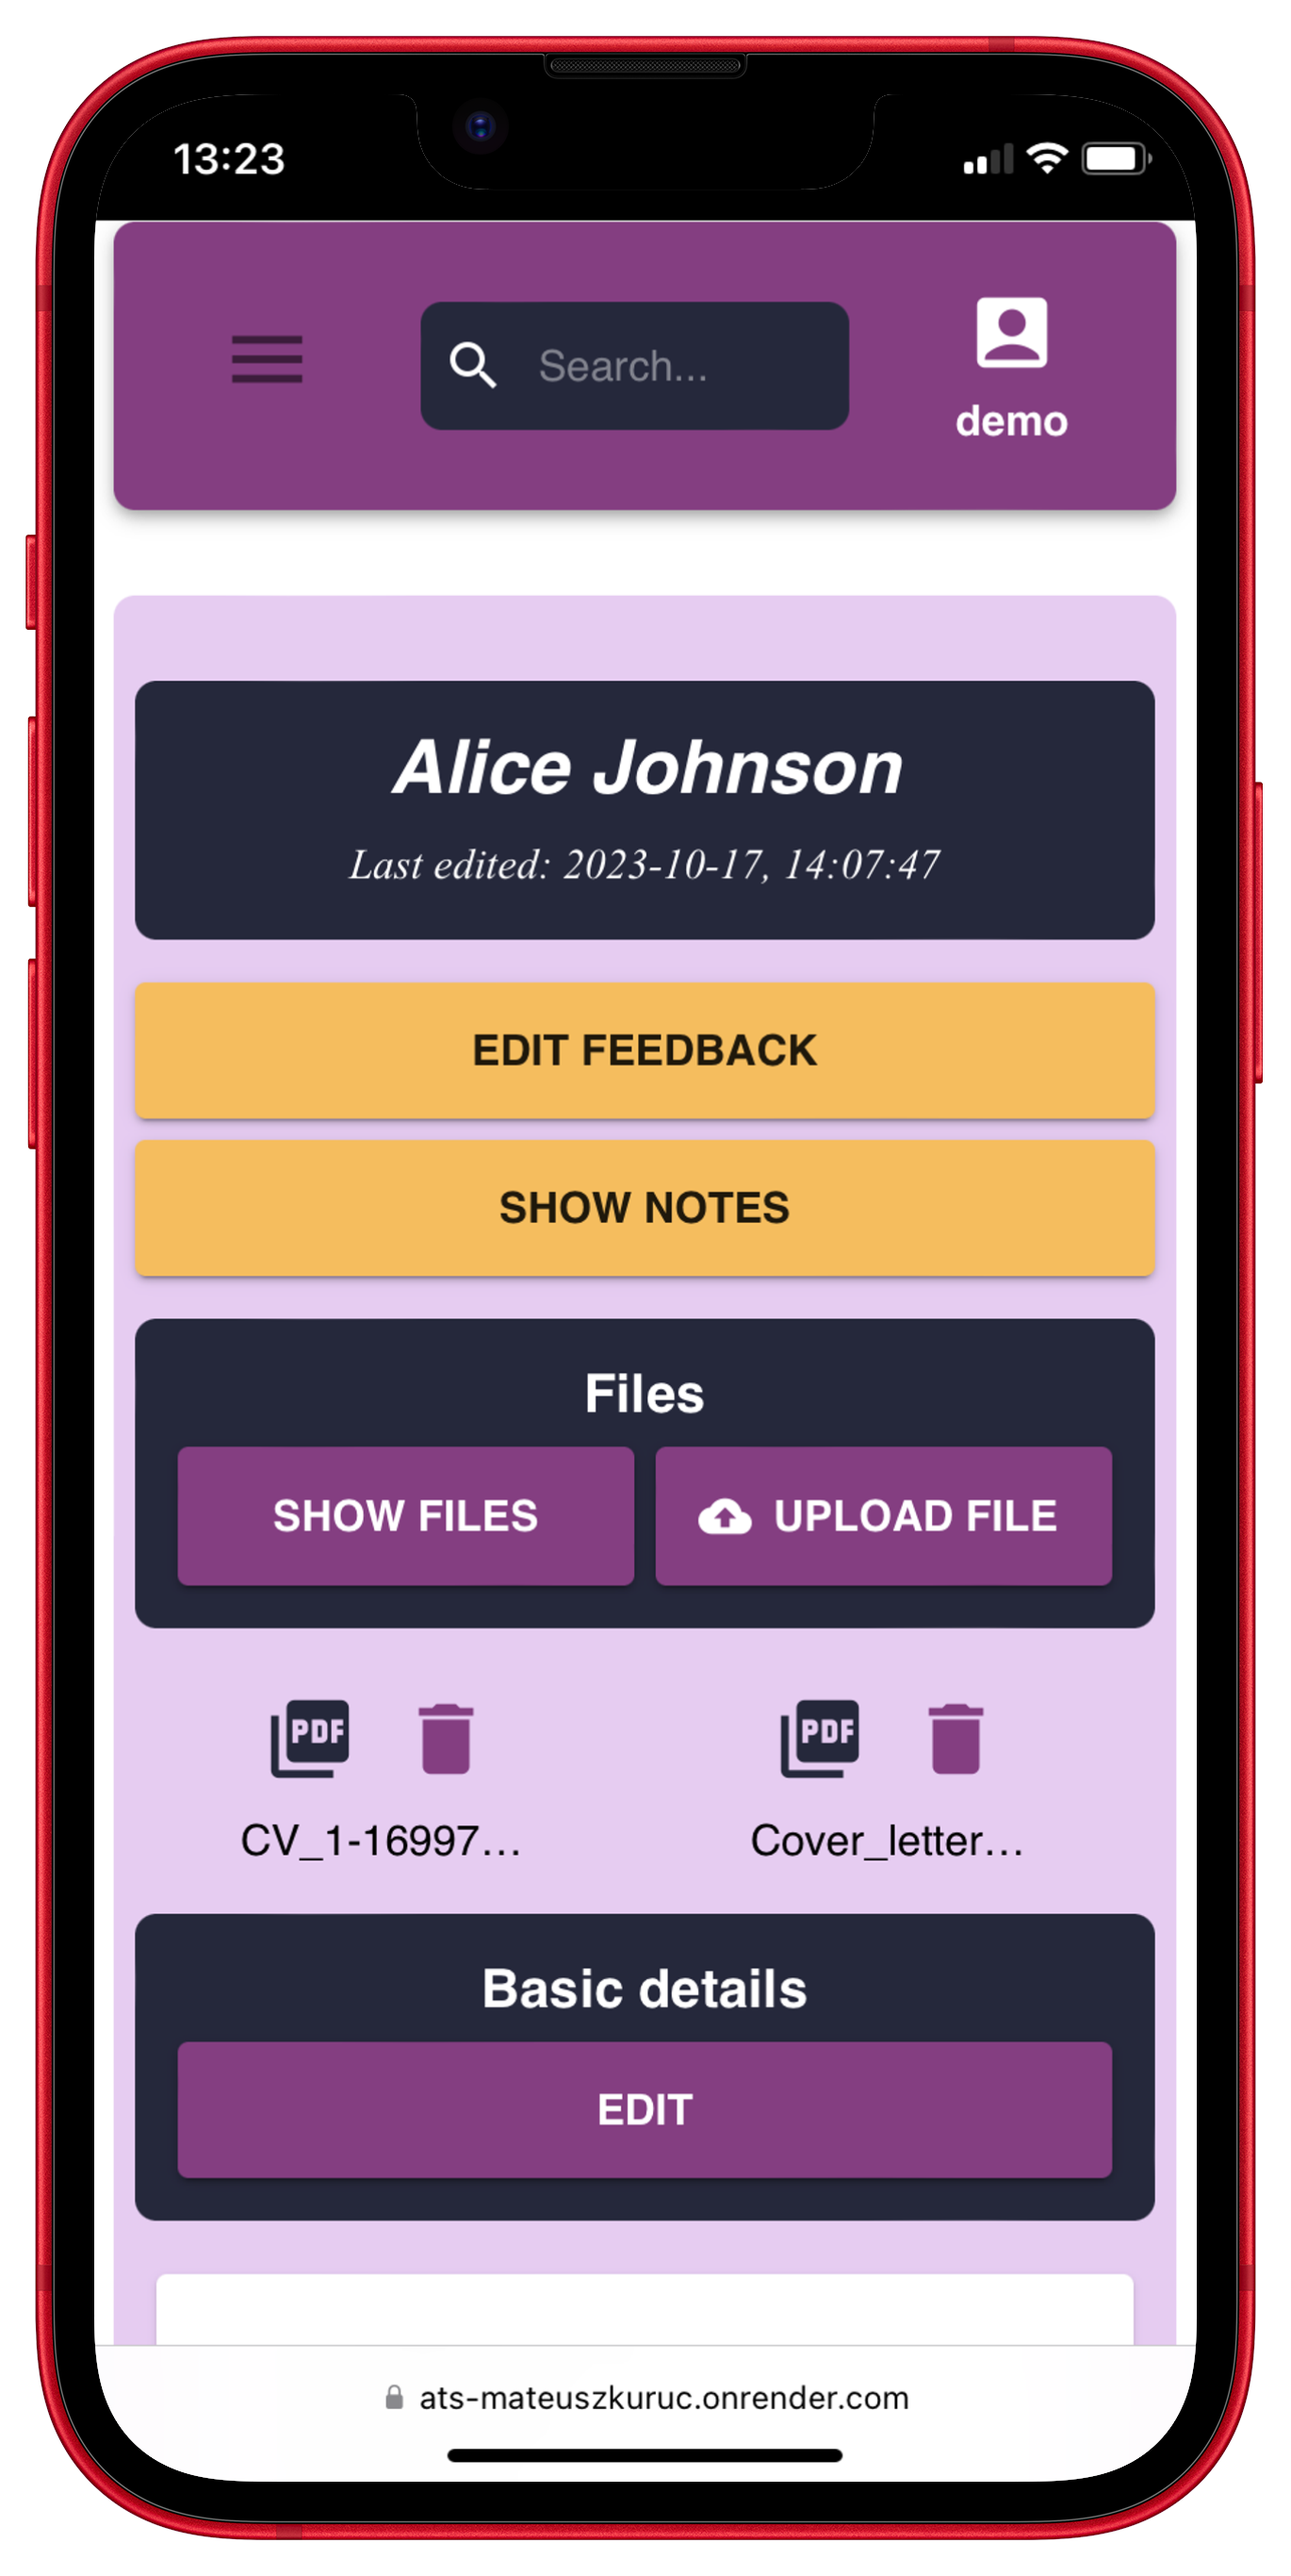
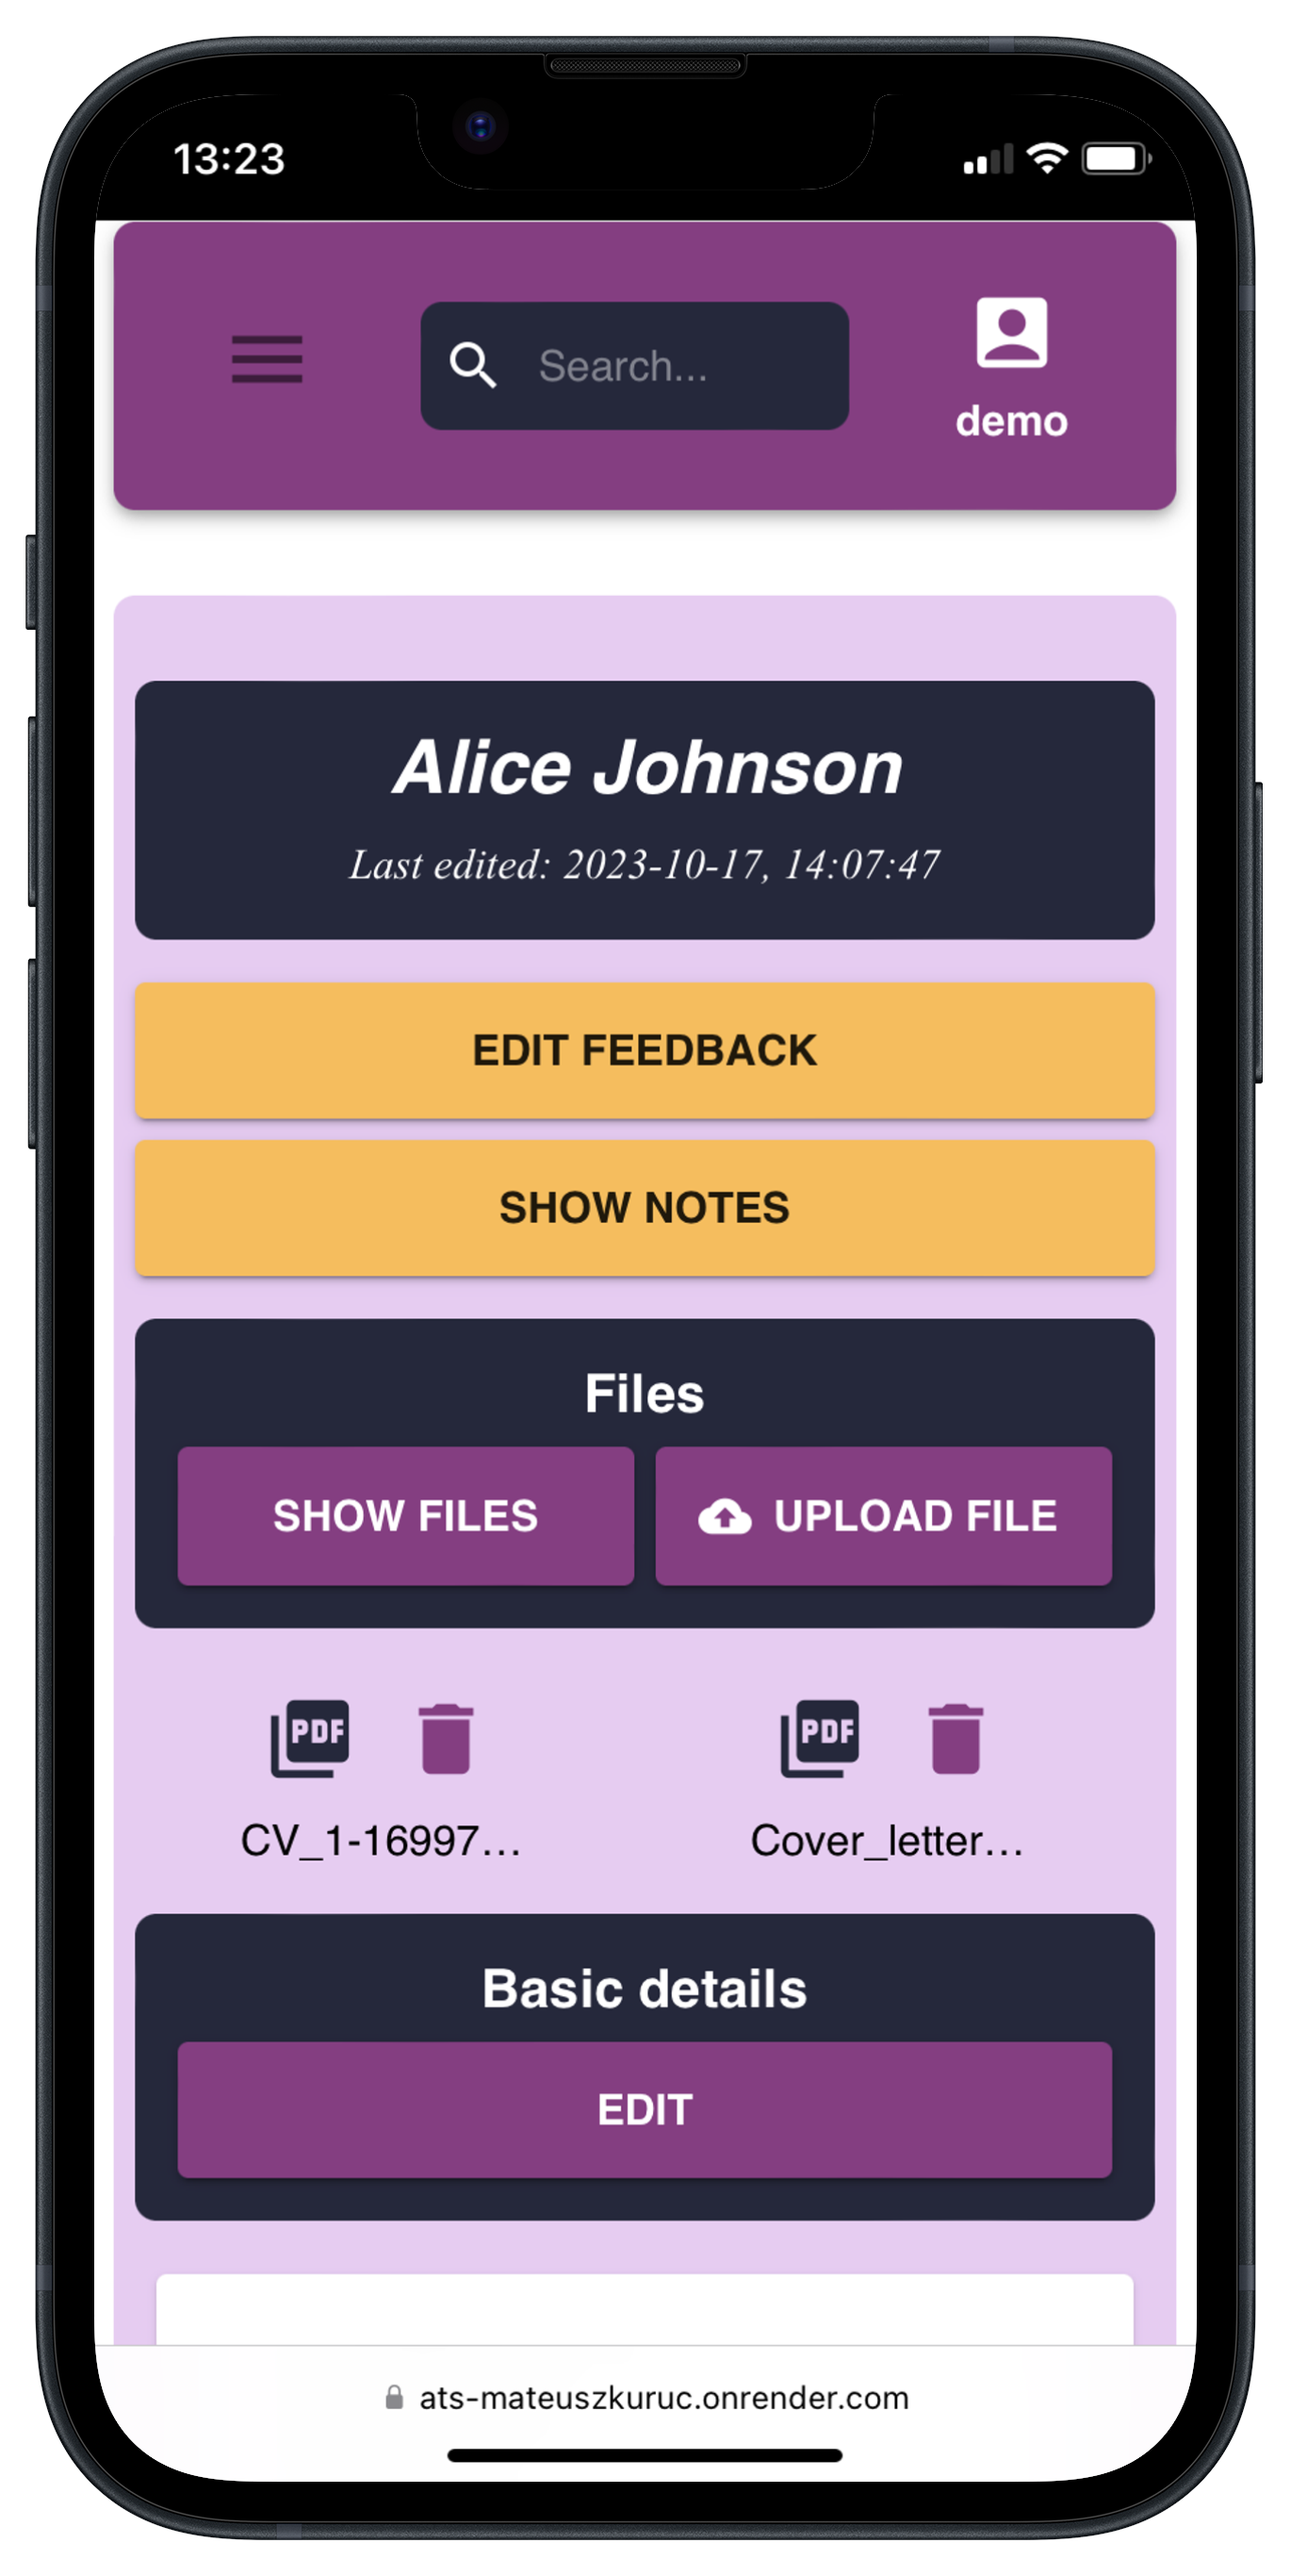
fix width and height for Next Image components for ats app

diff --git a/developer-portfolio-site/src/app/components/ats-project-components/AtsChallenges.tsx b/developer-portfolio-site/src/app/components/ats-project-components/AtsChallenges.tsx
@@ -77,7 +77,7 @@ const AtsChallenges = () => {
               src="/ats_mobile_3.png"
               alt="mobile screen"
               width={300}
-              height={300}
+              height={598}
               className="self-center"
             />
             <div className="md:w-[50%]">
@@ -171,13 +171,13 @@ const AtsChallenges = () => {
               <Image
                 src="/ats_desktop_3.png"
                 width={1000}
-                height={800}
+                height={636}
                 alt="project screen"
               />
               <Image
                 src="/ats_mobile_4.png"
                 width={300}
-                height={300}
+                height={598}
                 alt="mobile screen"
               />
             </div>

diff --git a/developer-portfolio-site/src/app/components/landing-page-components/Projects.tsx b/developer-portfolio-site/src/app/components/landing-page-components/Projects.tsx
@@ -24,7 +24,7 @@ const Projects = () => {
             src="/ats_mobile_1.png"
             alt="ATS app mobile screen"
             width={150}
-            height={150}
+            height={299}
             className="absolute top-1/3 md:left-3/4 left-3/4 w-[100px] lg:w-[150px]"
           />
         </div>
@@ -109,7 +109,7 @@ const Projects = () => {
             src="/project2_mobile_1.png"
             alt="marketing portfolio mobile screen"
             width={150}
-            height={150}
+            height={299}
             className="absolute top-1/3 md:left-3/4 left-3/4 w-[100px] lg:w-[150px]"
           />
         </div>

diff --git a/developer-portfolio-site/src/app/components/ats-project-components/AtsKeyFeatures.tsx b/developer-portfolio-site/src/app/components/ats-project-components/AtsKeyFeatures.tsx
@@ -43,7 +43,7 @@ const AtsKeyFeatures = () => {
         <Image
           src="/ats_desktop_2.png"
           width={1200}
-          height={800}
+          height={763}
           alt="project desktop screen"
           className="py-4 md:p-0"
         />

diff --git a/developer-portfolio-site/src/app/components/ats-project-components/AtsHeader.tsx b/developer-portfolio-site/src/app/components/ats-project-components/AtsHeader.tsx
@@ -57,7 +57,7 @@ const AtsHeader = () => {
             src="/ats_mobile_2.png"
             alt="ats app desktop screen"
             width={300}
-            height={300}
+            height={598}
           />
         </div>
       </div>
